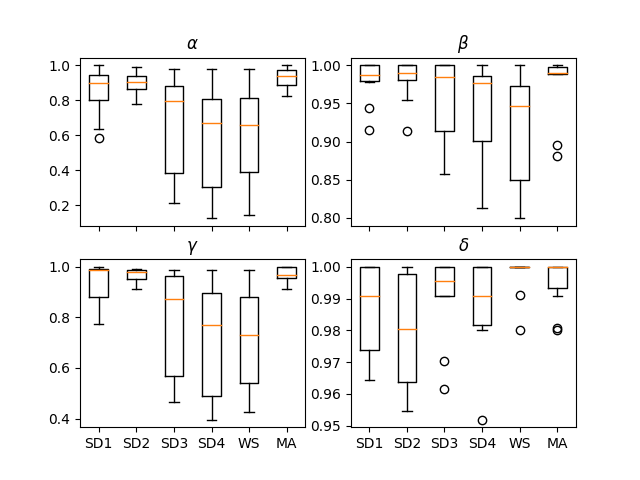
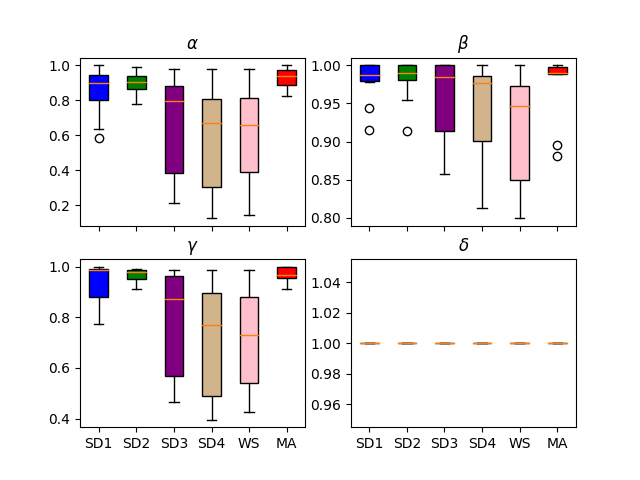
Boxplotss

diff --git a/Watershed/FUNCTIONS_V2.py b/Watershed/FUNCTIONS_V2.py
@@ -909,22 +909,28 @@ def PLOT_BOX(Data, Algo,Title,Labels,Range,Save):
 
     fig, axs = plt.subplots(2, 2)
 
-    axs[0, 0].boxplot(alphaData.values(), patch_artist=True)
+    bp1 =axs[0, 0].boxplot(alphaData.values(), patch_artist=True)
     axs[0, 0].xaxis.set_tick_params(labelbottom=False)
     axs[0, 0].set_title(r"$\alpha$")
 
-    axs[0, 1].boxplot(betaData.values(), patch_artist=True)
+    bp2 = axs[0, 1].boxplot(betaData.values(), patch_artist=True)
     axs[0, 1].xaxis.set_tick_params(labelbottom=False)
     axs[0, 1].set_title(r"$\beta$")
 
-    axs[1, 0].boxplot(gammaData.values(), patch_artist=True)
+    bp3 =axs[1, 0].boxplot(gammaData.values(), patch_artist=True)
     axs[1, 0].set_xticklabels(alphaData.keys())
     axs[1, 0].set_title(r"$\gamma$")
 
-    axs[1, 1].boxplot(deltaData.values(), patch_artist=True)
+    bp4 = axs[1, 1].boxplot(deltaData.values(), patch_artist=True)
     axs[1, 1].set_xticklabels(alphaData.keys())
     axs[1, 1].set_title(r"$\delta$")
 
+    bps = [bp1, bp2, bp3, bp4]
+    colors = ['blue', 'green', 'purple', 'tan', 'pink', 'red']
+
+    for bplot in bps:
+        for patch, color in zip(bplot['boxes'], colors):
+            patch.set_facecolor(color)
     plt.savefig("Effectiveness Boxplots")
 
 

diff --git a/Watershed/MAIN_V2.py b/Watershed/MAIN_V2.py
@@ -58,7 +58,7 @@ WT_Parameters = [3, [0.3, 2, 2], [10, 10, 1], 3, "exact",""]  # Radius, Relative
 
 CV=[""] #CROP, TIFtoCSV
 
-CP_Parameters = [0.7,0.7, "M"]  # cutoff
+CP_Parameters = [0.7,0.7]  # cutoff
 CP_GroundTruth = "Annotated/Ground Truth/"   #sub-folder
 CP_Algorithms = [               #chosen algos
         "Watershed",
